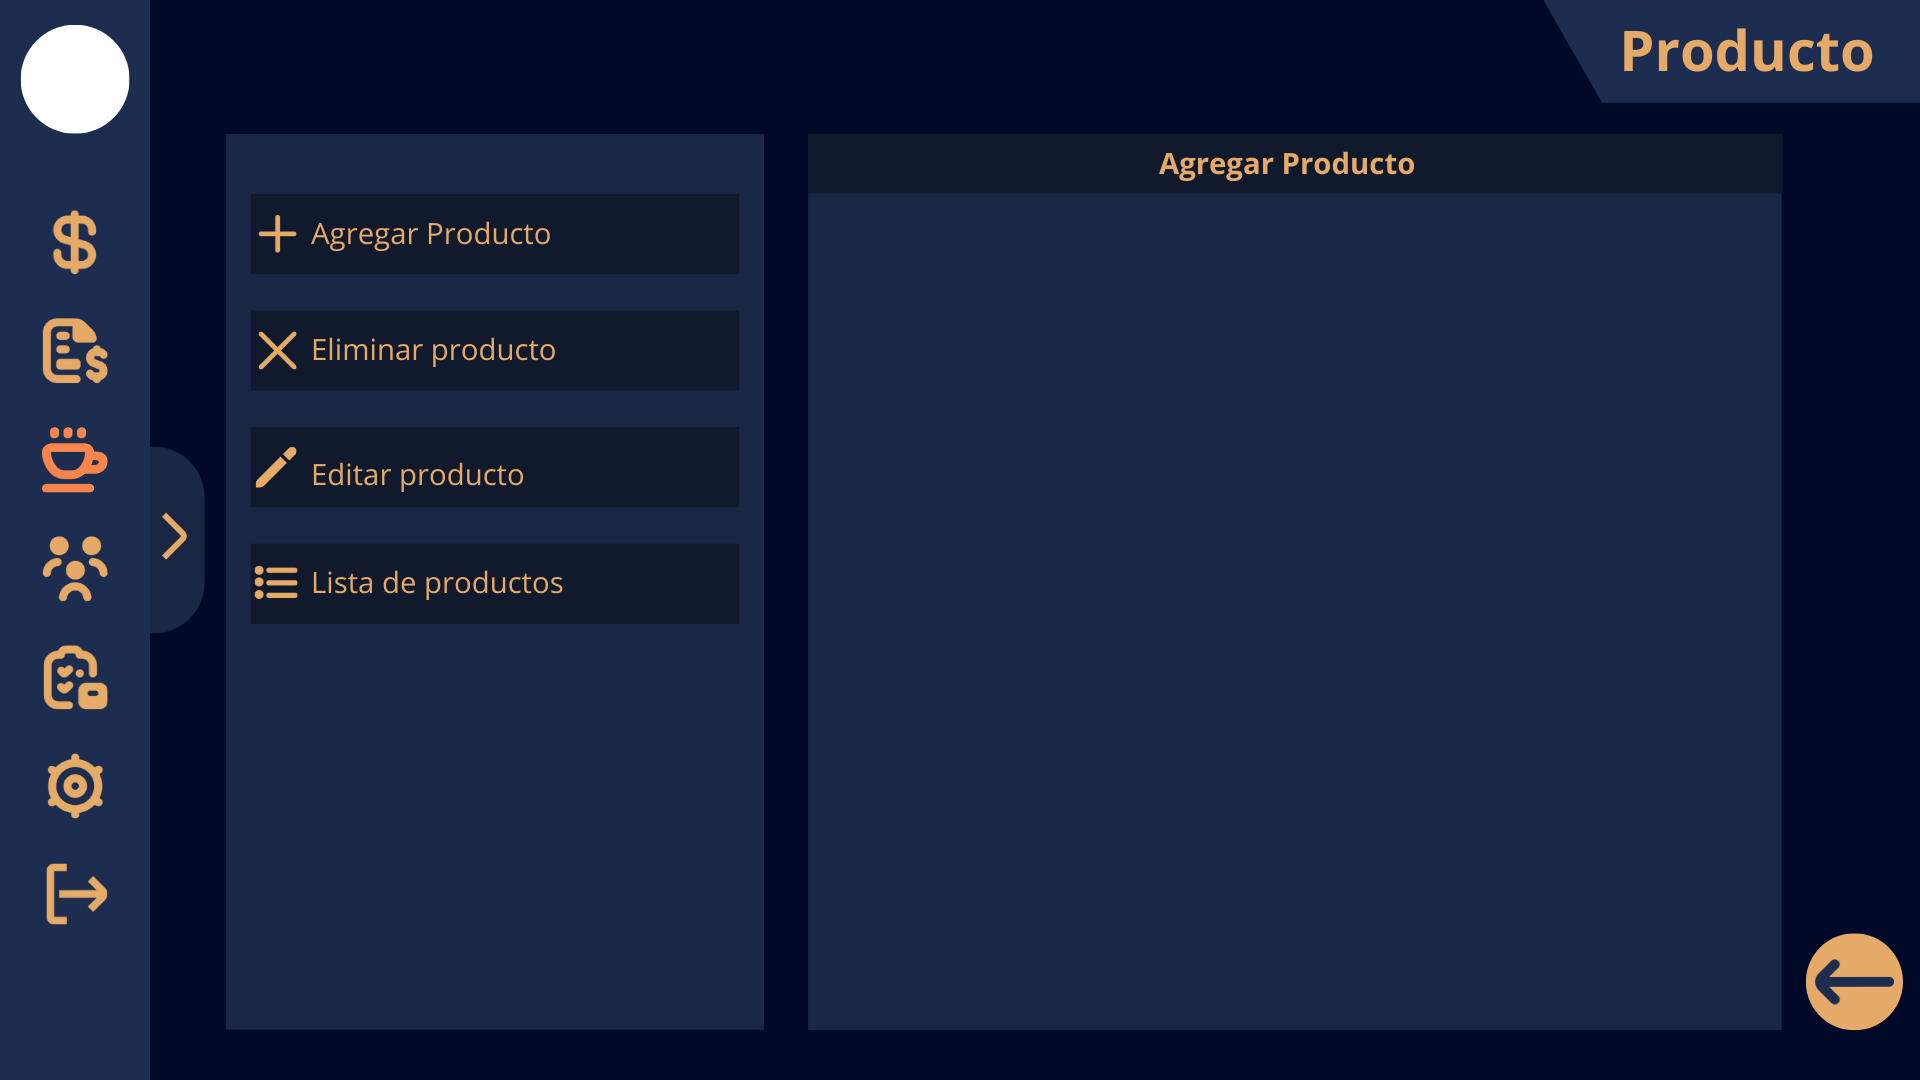
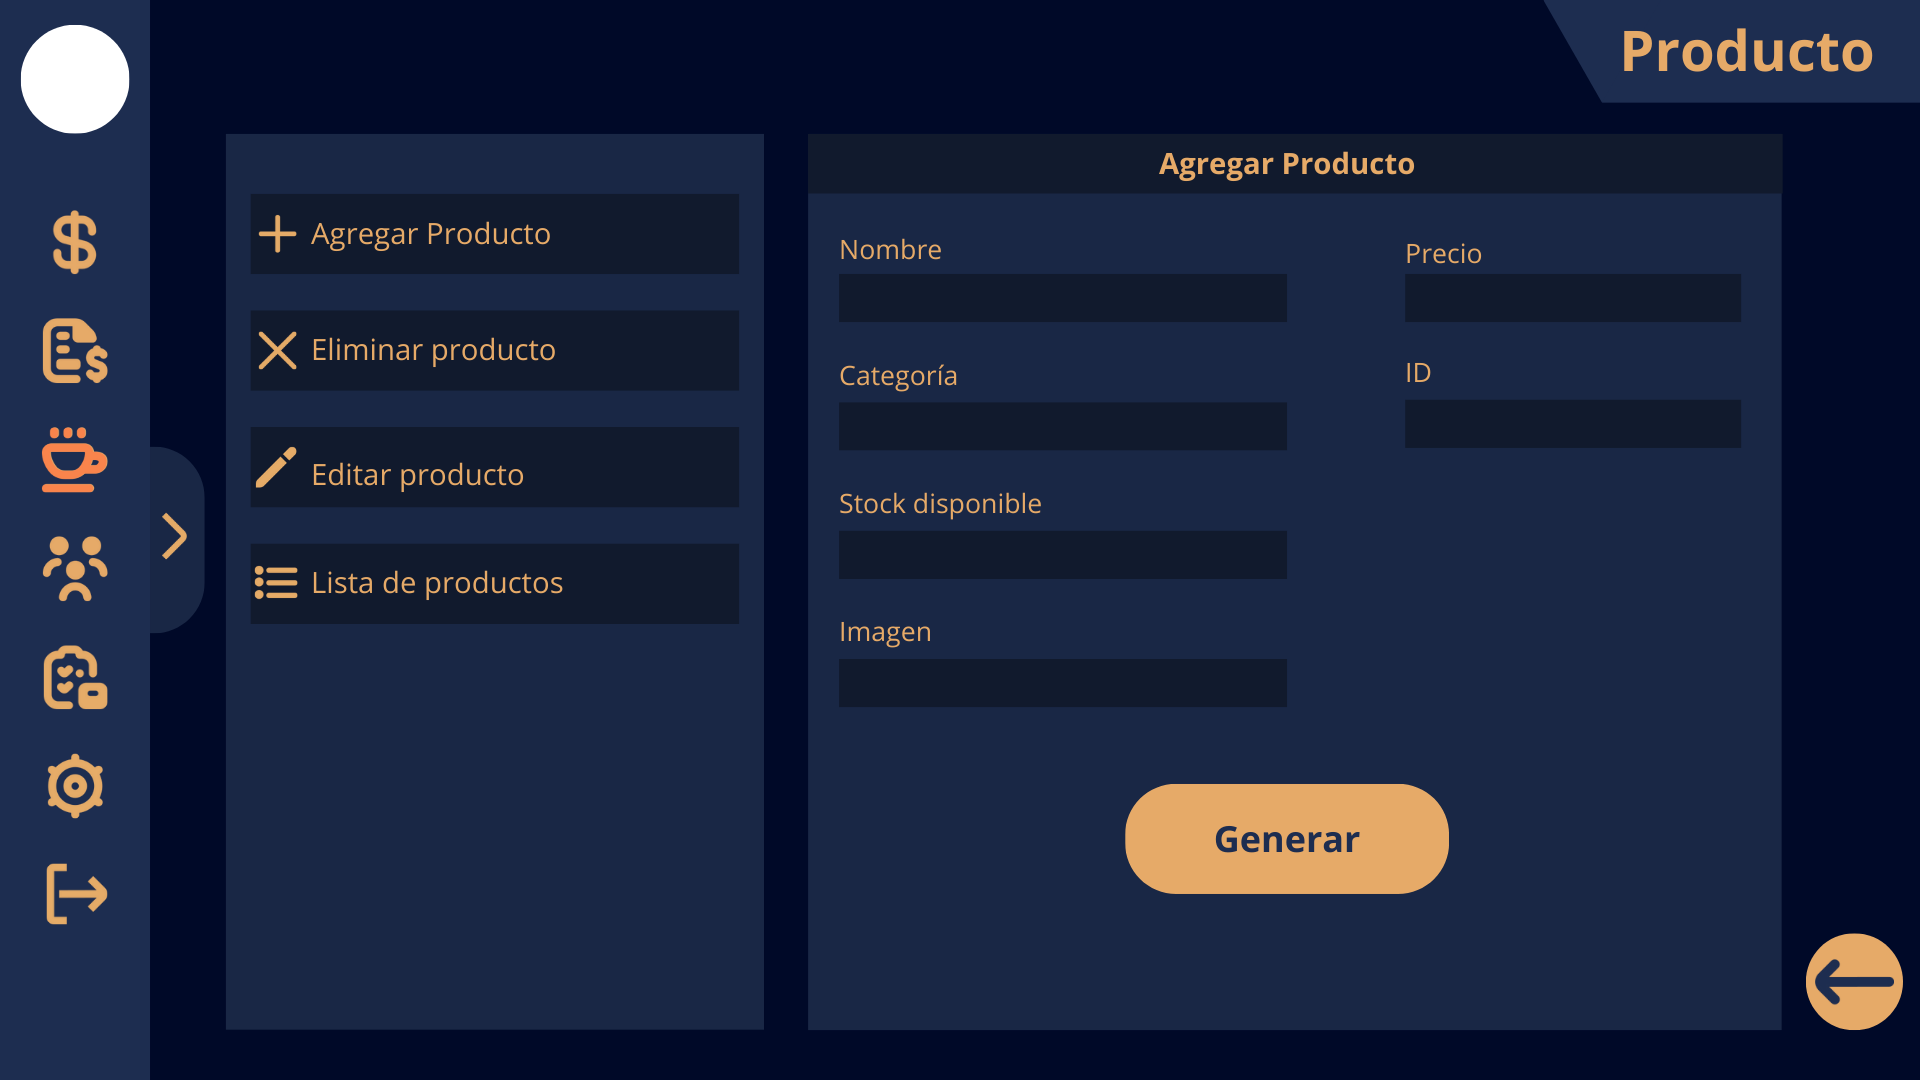
ya quedo w

diff --git a/pantallas/p_producto.py b/pantallas/p_producto.py
@@ -1,8 +1,11 @@
 import sys
+import p_inicio
+import main_p
 from PyQt6.QtCore import Qt
+from PyQt6.QtWidgets import QLineEdit
 from PyQt6.QtGui import QPixmap
 from PyQt6.QtWidgets import QApplication, QMainWindow, QLabel, QVBoxLayout, QWidget, QPushButton
-
+####################################################################################################
 class MainWindow(QMainWindow):
     def __init__(self):
         super().__init__()
@@ -36,6 +39,7 @@ class MainWindow(QMainWindow):
             ["Eliminar", 273, 225, 343, 55],
             ["Editar", 273, 306, 343, 55],
             ["Lista", 273, 387, 343, 55],
+            ["Regresar", 1270, 655, 77, 70],
             
         ]
 
@@ -81,7 +85,11 @@ class MainWindow(QMainWindow):
             self.main_window = ListaProducto()
             self.main_window.show()
             self.close()
-
+        elif button.text() == "Regresar":
+            self.main_window = main_p.MainPWindow()  
+            self.main_window.show()
+            self.close()
+########################################################################################################
 class AgregarProducto(QMainWindow):
     def __init__(self):
         super().__init__()
@@ -92,14 +100,74 @@ class AgregarProducto(QMainWindow):
         central_widget = QWidget(self)
         self.setCentralWidget(central_widget)
 
-        # fondo
+        # fondo agregar
         background_label = QLabel(central_widget)
         pixmap = QPixmap('imagenes/agregarpr.png')
         background_label.setPixmap(pixmap)
         background_label.setScaledContents(True)
         central_layout = QVBoxLayout(central_widget)
         central_layout.addWidget(background_label)
+        #casillas
+        input_configs = [
+            [".", 598, 194, 317, 40],
+            [".", 598, 284, 317, 40],
+            [".", 598, 374, 317, 40],
+            [".", 598, 464, 317, 40],
+            [".", 994, 198, 250, 40],
+            [".", 994, 287, 250, 40],   
+        ]
 
+        self.inputs = []
+        for placeholder, x, y, width, height in input_configs:
+            input_field = QLineEdit(self)
+            input_field.setPlaceholderText(placeholder)  # Texto de referencia dentro del campo
+            input_field.setFixedSize(width, height)
+            input_field.move(x, y)
+            input_field.setStyleSheet("""
+                QLineEdit {
+                    border: 2px solid gray;
+                    border-radius: 10px;
+                    padding: 5px;
+                    font-size: 14px;
+                }
+            """)
+            self.inputs.append(input_field)
+
+        #botones
+        button_configs = [
+            ["Regresar", 1270, 655, 77, 70],
+            ["Confirmar", 798, 554, 227, 78],
+        ]
+        self.buttons = []
+        for name, x, y, width, height in button_configs:
+            button = QPushButton(name, self)
+            button.setFixedSize(width, height)
+            button.move(x, y)
+            button.setStyleSheet("""
+                QPushButton {
+                    background-color: rgba(255, 255, 255, 0);
+                    border: 0px solid white;
+                    border-radius: 10px;
+                    color: transparent;
+                }
+                QPushButton:hover {
+                    background-color: rgba(255, 255, 255, 40);
+                }
+                QPushButton:pressed {
+                    background-color: rgba(255, 255, 255, 60);
+                }
+            """)
+            self.buttons.append(button)
+        for button in self.buttons:
+            button.clicked.connect(self.button_clicked)
+    def button_clicked(self):
+        button = self.sender()
+        if button.text() == "Regresar":
+            self.main_window = MainWindow()  
+            self.main_window.show()
+            self.close()   
+        
+######################################################################################################
 class EliminarProducto(QMainWindow):
     def __init__(self):
         super().__init__()
@@ -118,6 +186,62 @@ class EliminarProducto(QMainWindow):
         central_layout = QVBoxLayout(central_widget)
         central_layout.addWidget(background_label)
 
+        input_configs = [
+            [".", 598, 194, 317, 40],
+   
+        ]
+
+        self.inputs = []
+        for placeholder, x, y, width, height in input_configs:
+            input_field = QLineEdit(self)
+            input_field.setPlaceholderText(placeholder)  # Texto de referencia dentro del campo
+            input_field.setFixedSize(width, height)
+            input_field.move(x, y)
+            input_field.setStyleSheet("""
+                QLineEdit {
+                    border: 2px solid gray;
+                    border-radius: 10px;
+                    padding: 5px;
+                    font-size: 14px;
+                }
+            """)
+            self.inputs.append(input_field)
+        #boton
+        button_configs = [
+            ["Regresar", 1270, 655, 77, 70],
+            ["Confirmar", 798, 554, 227, 78],
+        ]
+        self.buttons = []
+        for name, x, y, width, height in button_configs:
+            button = QPushButton(name, self)
+            button.setFixedSize(width, height)
+            button.move(x, y)
+            button.setStyleSheet("""
+                QPushButton {
+                    background-color: rgba(255, 255, 255, 0);
+                    border: 0px solid white;
+                    border-radius: 10px;
+                    color: transparent;
+                }
+                QPushButton:hover {
+                    background-color: rgba(255, 255, 255, 40);
+                }
+                QPushButton:pressed {
+                    background-color: rgba(255, 255, 255, 60);
+                }
+            """)
+            self.buttons.append(button)
+        for button in self.buttons:
+            button.clicked.connect(self.button_clicked)
+    def button_clicked(self):
+        button = self.sender()
+        if button.text() == "Regresar":
+            self.main_window = MainWindow()  
+            self.main_window.show()
+            self.close() 
+
+
+##########################################################################################################
 class EditarProducto(QMainWindow):
     def __init__(self):
         super().__init__()
@@ -134,8 +258,40 @@ class EditarProducto(QMainWindow):
         background_label.setPixmap(pixmap)
         background_label.setScaledContents(True)
         central_layout = QVBoxLayout(central_widget)
-        central_layout.addWidget(background_label)        
-    
+        central_layout.addWidget(background_label)   
+    #boton
+        button_configs = [
+            ["Regresar", 1270, 655, 77, 70],
+        ]
+        self.buttons = []
+        for name, x, y, width, height in button_configs:
+            button = QPushButton(name, self)
+            button.setFixedSize(width, height)
+            button.move(x, y)
+            button.setStyleSheet("""
+                QPushButton {
+                    background-color: rgba(255, 255, 255, 0);
+                    border: 0px solid white;
+                    border-radius: 10px;
+                    color: transparent;
+                }
+                QPushButton:hover {
+                    background-color: rgba(255, 255, 255, 40);
+                }
+                QPushButton:pressed {
+                    background-color: rgba(255, 255, 255, 60);
+                }
+            """)
+            self.buttons.append(button)
+        for button in self.buttons:
+            button.clicked.connect(self.button_clicked)
+    def button_clicked(self):
+        button = self.sender()
+        if button.text() == "Regresar":
+            self.main_window = MainWindow()  
+            self.main_window.show()
+            self.close()      
+##############################################################################    
 class ListaProducto(QMainWindow):
     def __init__(self):
         super().__init__()
@@ -148,11 +304,43 @@ class ListaProducto(QMainWindow):
 
         # fondo
         background_label = QLabel(central_widget)
-        pixmap = QPixmap('imagenes/agregarpr.png')
+        pixmap = QPixmap('imagenes/listadp.png')
         background_label.setPixmap(pixmap)
         background_label.setScaledContents(True)
         central_layout = QVBoxLayout(central_widget)
         central_layout.addWidget(background_label)
+    #boton
+        button_configs = [
+            ["Regresar", 1270, 655, 77, 70],
+        ]
+        self.buttons = []
+        for name, x, y, width, height in button_configs:
+            button = QPushButton(name, self)
+            button.setFixedSize(width, height)
+            button.move(x, y)
+            button.setStyleSheet("""
+                QPushButton {
+                    background-color: rgba(255, 255, 255, 0);
+                    border: 0px solid white;
+                    border-radius: 10px;
+                    color: transparent;
+                }
+                QPushButton:hover {
+                    background-color: rgba(255, 255, 255, 40);
+                }
+                QPushButton:pressed {
+                    background-color: rgba(255, 255, 255, 60);
+                }
+            """)
+            self.buttons.append(button)
+        for button in self.buttons:
+            button.clicked.connect(self.button_clicked)
+    def button_clicked(self):
+        button = self.sender()
+        if button.text() == "Regresar":
+            self.main_window = MainWindow()  
+            self.main_window.show()
+            self.close() 
 
 
 if __name__ == "__main__":

diff --git a/pantallas/p_inicio.py b/pantallas/p_inicio.py
@@ -1,4 +1,5 @@
 import p_producto
+import main_p
 import sys
 from PyQt6.QtCore import Qt
 from PyQt6.QtGui import QPixmap
@@ -62,7 +63,7 @@ class MainWindow(QMainWindow):
     def button_clicked(self):
         button = self.sender()
         if button.text() == "Productos":
-            self.main_window = p_producto.MainWindow()
+            self.main_window = main_p.MainPWindow()
             self.main_window.show()
             self.close()
 if __name__ == "__main__":
